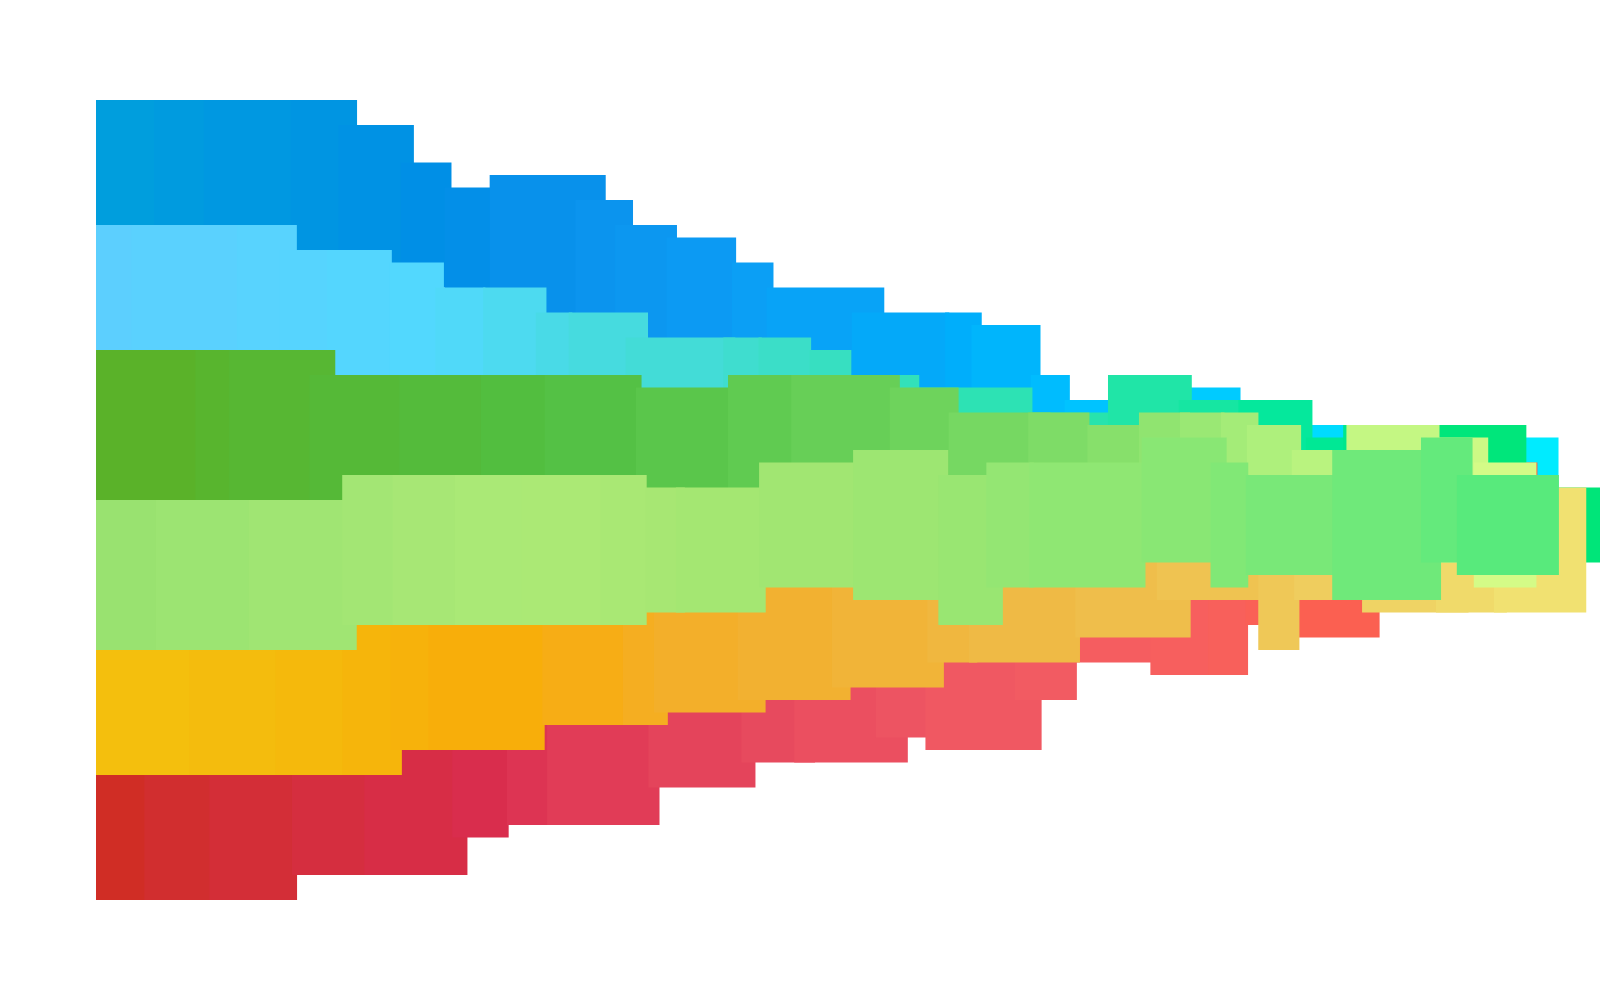
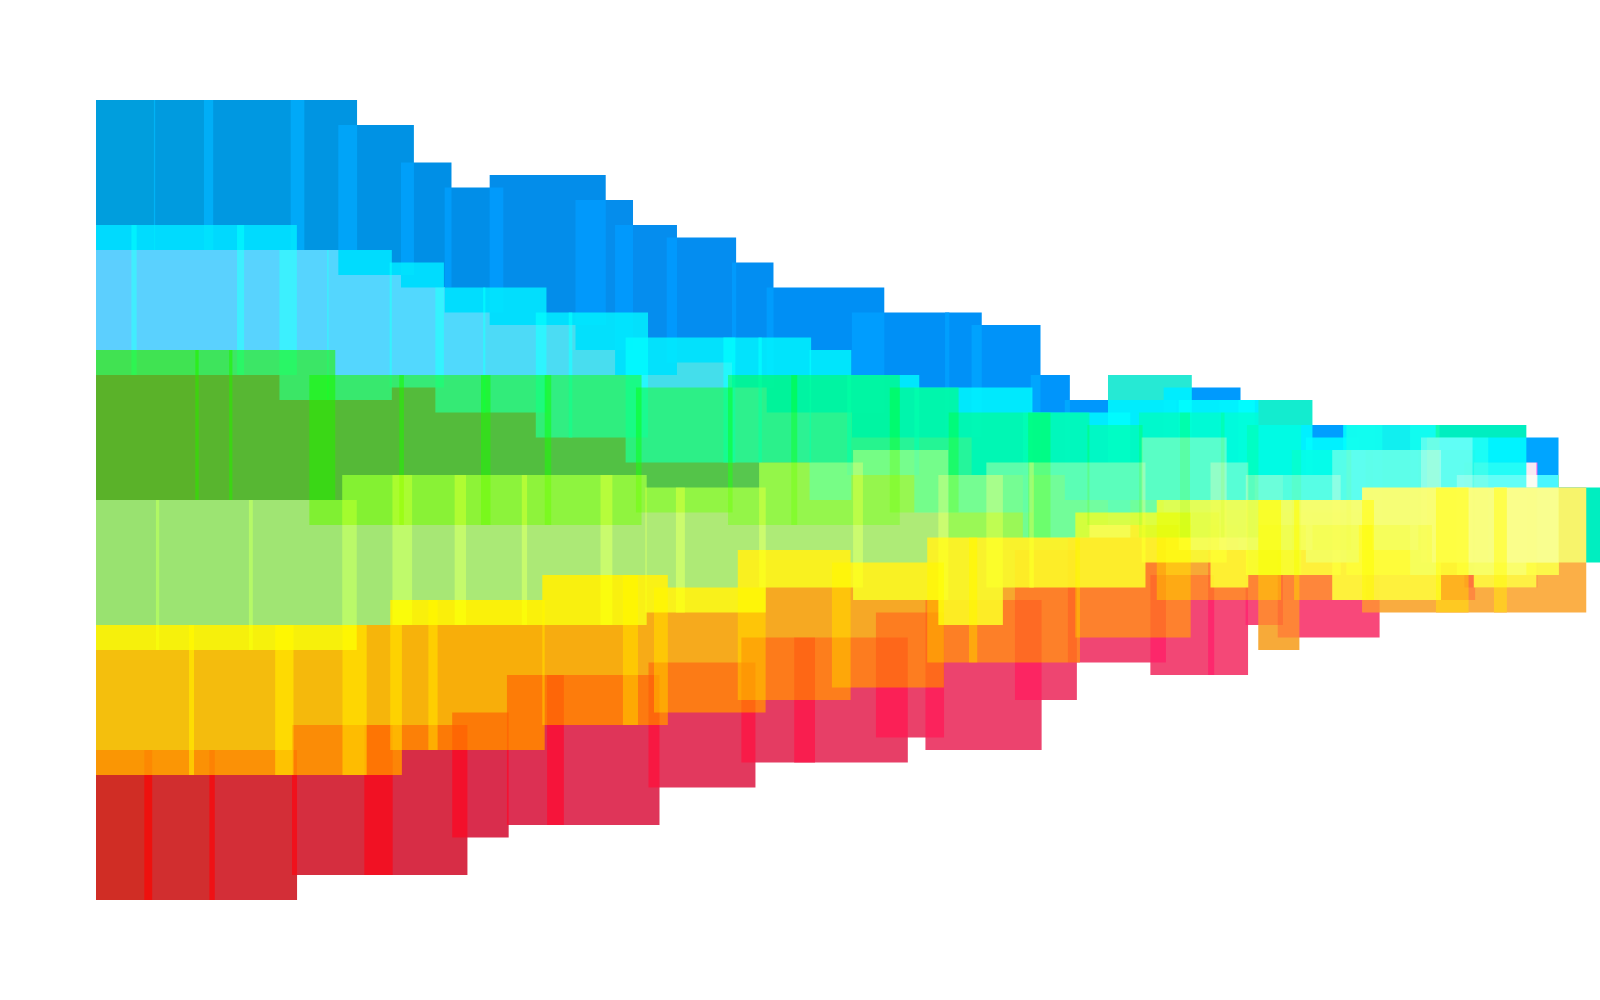
Motor: fusión en Luz fuerte (hard-light) sobre capa transparente, como en Illustrator
Claude-Session: https://claude.ai/code/session_016ZNo35b44Yh7ZNd6P6WE65

Changed region(s): [[0.0625, 0.217, 1.0, 0.899]]

diff --git a/app/engine.js b/app/engine.js
@@ -105,11 +105,9 @@ const ramp = (fams, t) => {
     if (o.rot) ctx.rotate(o.rot);
     if (o.skew) ctx.transform(1, 0, o.skew, 1, 0, 0);
     strips(ctx, fa, -L1, -T1 / 2, L1 + L2, T1, n, true, R() < 0.5, o.jitter || 0, R);
+    ctx.globalCompositeOperation = 'hard-light'; // modo de fusión de la identidad (Illustrator: Luz fuerte)
     strips(ctx, fb, -T2 / 2, -U1, T2, U1 + U2, Math.max(4, n - 1), false, R() < 0.5, o.jitter || 0, R);
-    // nodo central = mezcla de ambas familias
-    const cc = mix(grad(fa, 0.55), grad(fb, 0.55), 0.5);
-    ctx.fillStyle = rgb(cc);
-    ctx.fillRect(-T2 / 2, -T1 / 2, T2, T1);
+    ctx.globalCompositeOperation = 'source-over';
     ctx.restore();
   }
 
@@ -158,6 +156,7 @@ const ramp = (fams, t) => {
     const q = (v) => Math.round(v / grid) * grid;
     // las corrientes lejanas se pintan primero; las centrales por encima
     const idx = fams.map((_, i) => i).sort((a, b) => Math.abs(b - (n - 1) / 2) - Math.abs(a - (n - 1) / 2));
+    ctx.globalCompositeOperation = 'hard-light';
     for (const i of idx) {
       const fam = fams[i], nb = fams[clamp(i + (i < (n - 1) / 2 ? 1 : -1), 0, n - 1)];
       const y0 = m + (i + 0.5) * ((H - 2 * m) / n);
@@ -167,13 +166,14 @@ const ramp = (fams, t) => {
         const bw = lerp(W * 0.02, W * 0.07, R()) * lerp(1, 1.2, p);
         const bh = q(lerp(rowH, rowH * R.range(0.55, 1.1), e));
         const y = q(lerp(y0, yc, Math.pow(e, 0.8)) + R.range(-grid, grid) * p);
-        const c = mix(grad(fam, p * 1.1), grad(nb, clamp(p * 1.3)), clamp(p * 1.4 - 0.3));
+        const c = mix(grad(fam, p * 1.1), grad(nb, clamp(p * 1.3)), clamp(p * 1.4 - 0.3) * 0.5);
         ctx.fillStyle = rgb(c);
         ctx.fillRect(x, y - bh / 2, bw + 1, bh);
         x += bw * R.range(0.7, 1);
         if (x > x1) break;
       }
     }
+    ctx.globalCompositeOperation = 'source-over';
   }
 
   // Bandas dentadas apiladas (franjas de la lámina 10)
@@ -246,32 +246,19 @@ const ramp = (fams, t) => {
     for (let y = 0; y < H; y += base) for (let x = 0; x < W; x += base) cell(x, y, base);
   }
 
-  // Mezcla: barras de degradado superpuestas; donde se cruzan, los colores se mezclan en OKLab
-  // (azul+amarillo = verde vivo, rojo+azul = violeta) en vez de oscurecerse
+  // Mezcla: barras de degradado superpuestas en Luz fuerte (como en Illustrator)
   function overprint(ctx, W, H, o) {
-    const R = o.R, g = Math.round(H / 12), sub = 4, u = g / sub;
+    const R = o.R, g = Math.round(H / 12);
     const q = (v) => Math.round(v / g) * g;
-    const n = R.int(5, 8), bars = [];
+    const n = R.int(6, 9);
+    ctx.globalCompositeOperation = 'hard-light';
     for (let i = 0; i < n; i++) {
-      const vertical = R() < 0.5;
+      const fam = R.pick(ORDER), vertical = R() < 0.5;
       const len = q(R.range(W * 0.35, W * 0.8)), th = q(R.range(H * 0.12, H * 0.34));
-      bars.push({
-        fam: R.pick(ORDER), vertical, rev: R() < 0.5, k: R.int(6, 12),
-        x: q(R.range(-W * 0.05, W * 0.75)), y: q(R.range(0, H * 0.8)),
-        w: vertical ? th : len, h: vertical ? len : th,
-      });
+      const x = q(R.range(-W * 0.05, W * 0.75)), y = q(R.range(0, H * 0.8));
+      strips(ctx, fam, x, y, vertical ? th : len, vertical ? len : th, R.int(6, 12), !vertical, R() < 0.5, 0, R);
     }
-    for (let y = 0; y < H; y += u) for (let x = 0; x < W; x += u) {
-      let acc = null, cnt = 0;
-      for (const b of bars) {
-        if (x < b.x || x >= b.x + b.w || y < b.y || y >= b.y + b.h) continue;
-        const p = b.vertical ? (y - b.y) / b.h : (x - b.x) / b.w;
-        const st = Math.floor(clamp(p) * b.k) / (b.k - 1);
-        const c = grad(b.fam, b.rev ? 1 - st : st);
-        acc = acc ? mix(acc, c, 1 / (cnt + 1)) : c; cnt++;
-      }
-      if (acc) { ctx.fillStyle = rgb(acc); ctx.fillRect(x, y, u + 0.5, u + 0.5); }
-    }
+    ctx.globalCompositeOperation = 'source-over';
   }
 
   /* ---------- Composiciones ---------- */
@@ -314,9 +301,13 @@ const ramp = (fams, t) => {
     const comp = COMPS[spec.comp] ? spec.comp : CONCEPTOS[spec.concepto] || 'mas';
     const seed = spec.seed || 1;
     const R = rng(seed);
+    const layer = document.createElement('canvas');
+    layer.width = W; layer.height = H;
+    COMPS[comp](layer.getContext('2d'), W, H, { R, seed, fams: spec.fams });
+    ctx.globalCompositeOperation = 'source-over';
     ctx.fillStyle = spec.bg || '#ffffff';
     ctx.fillRect(0, 0, W, H);
-    COMPS[comp](ctx, W, H, { R, seed, fams: spec.fams });
+    ctx.drawImage(layer, 0, 0);
     return comp;
   }
 
